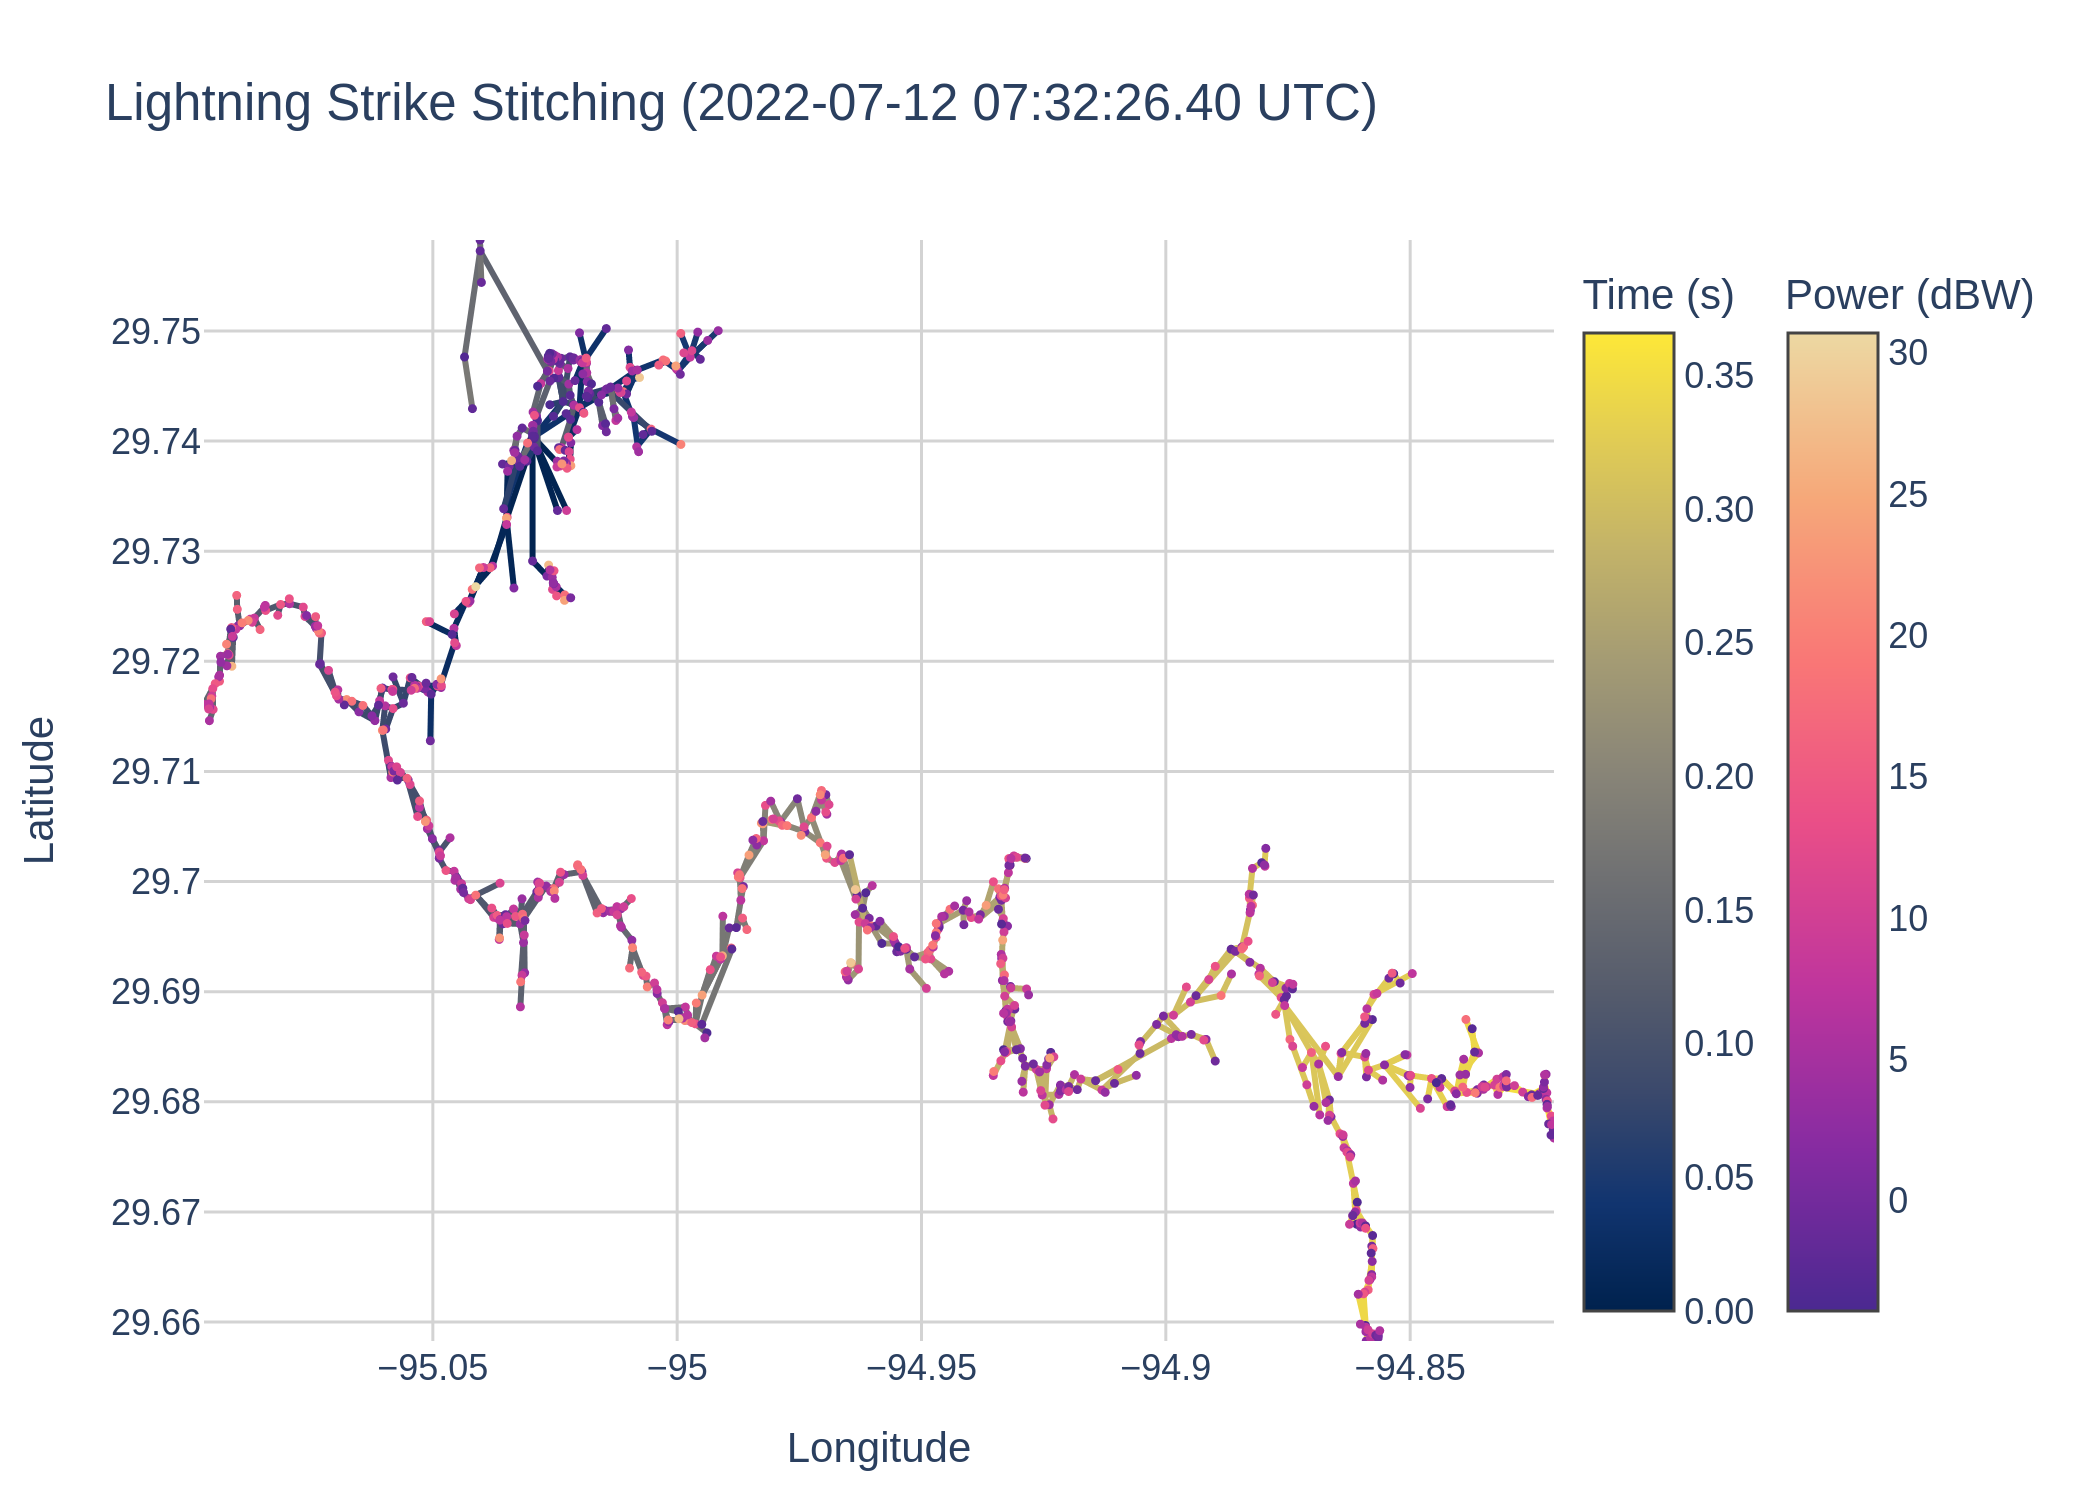
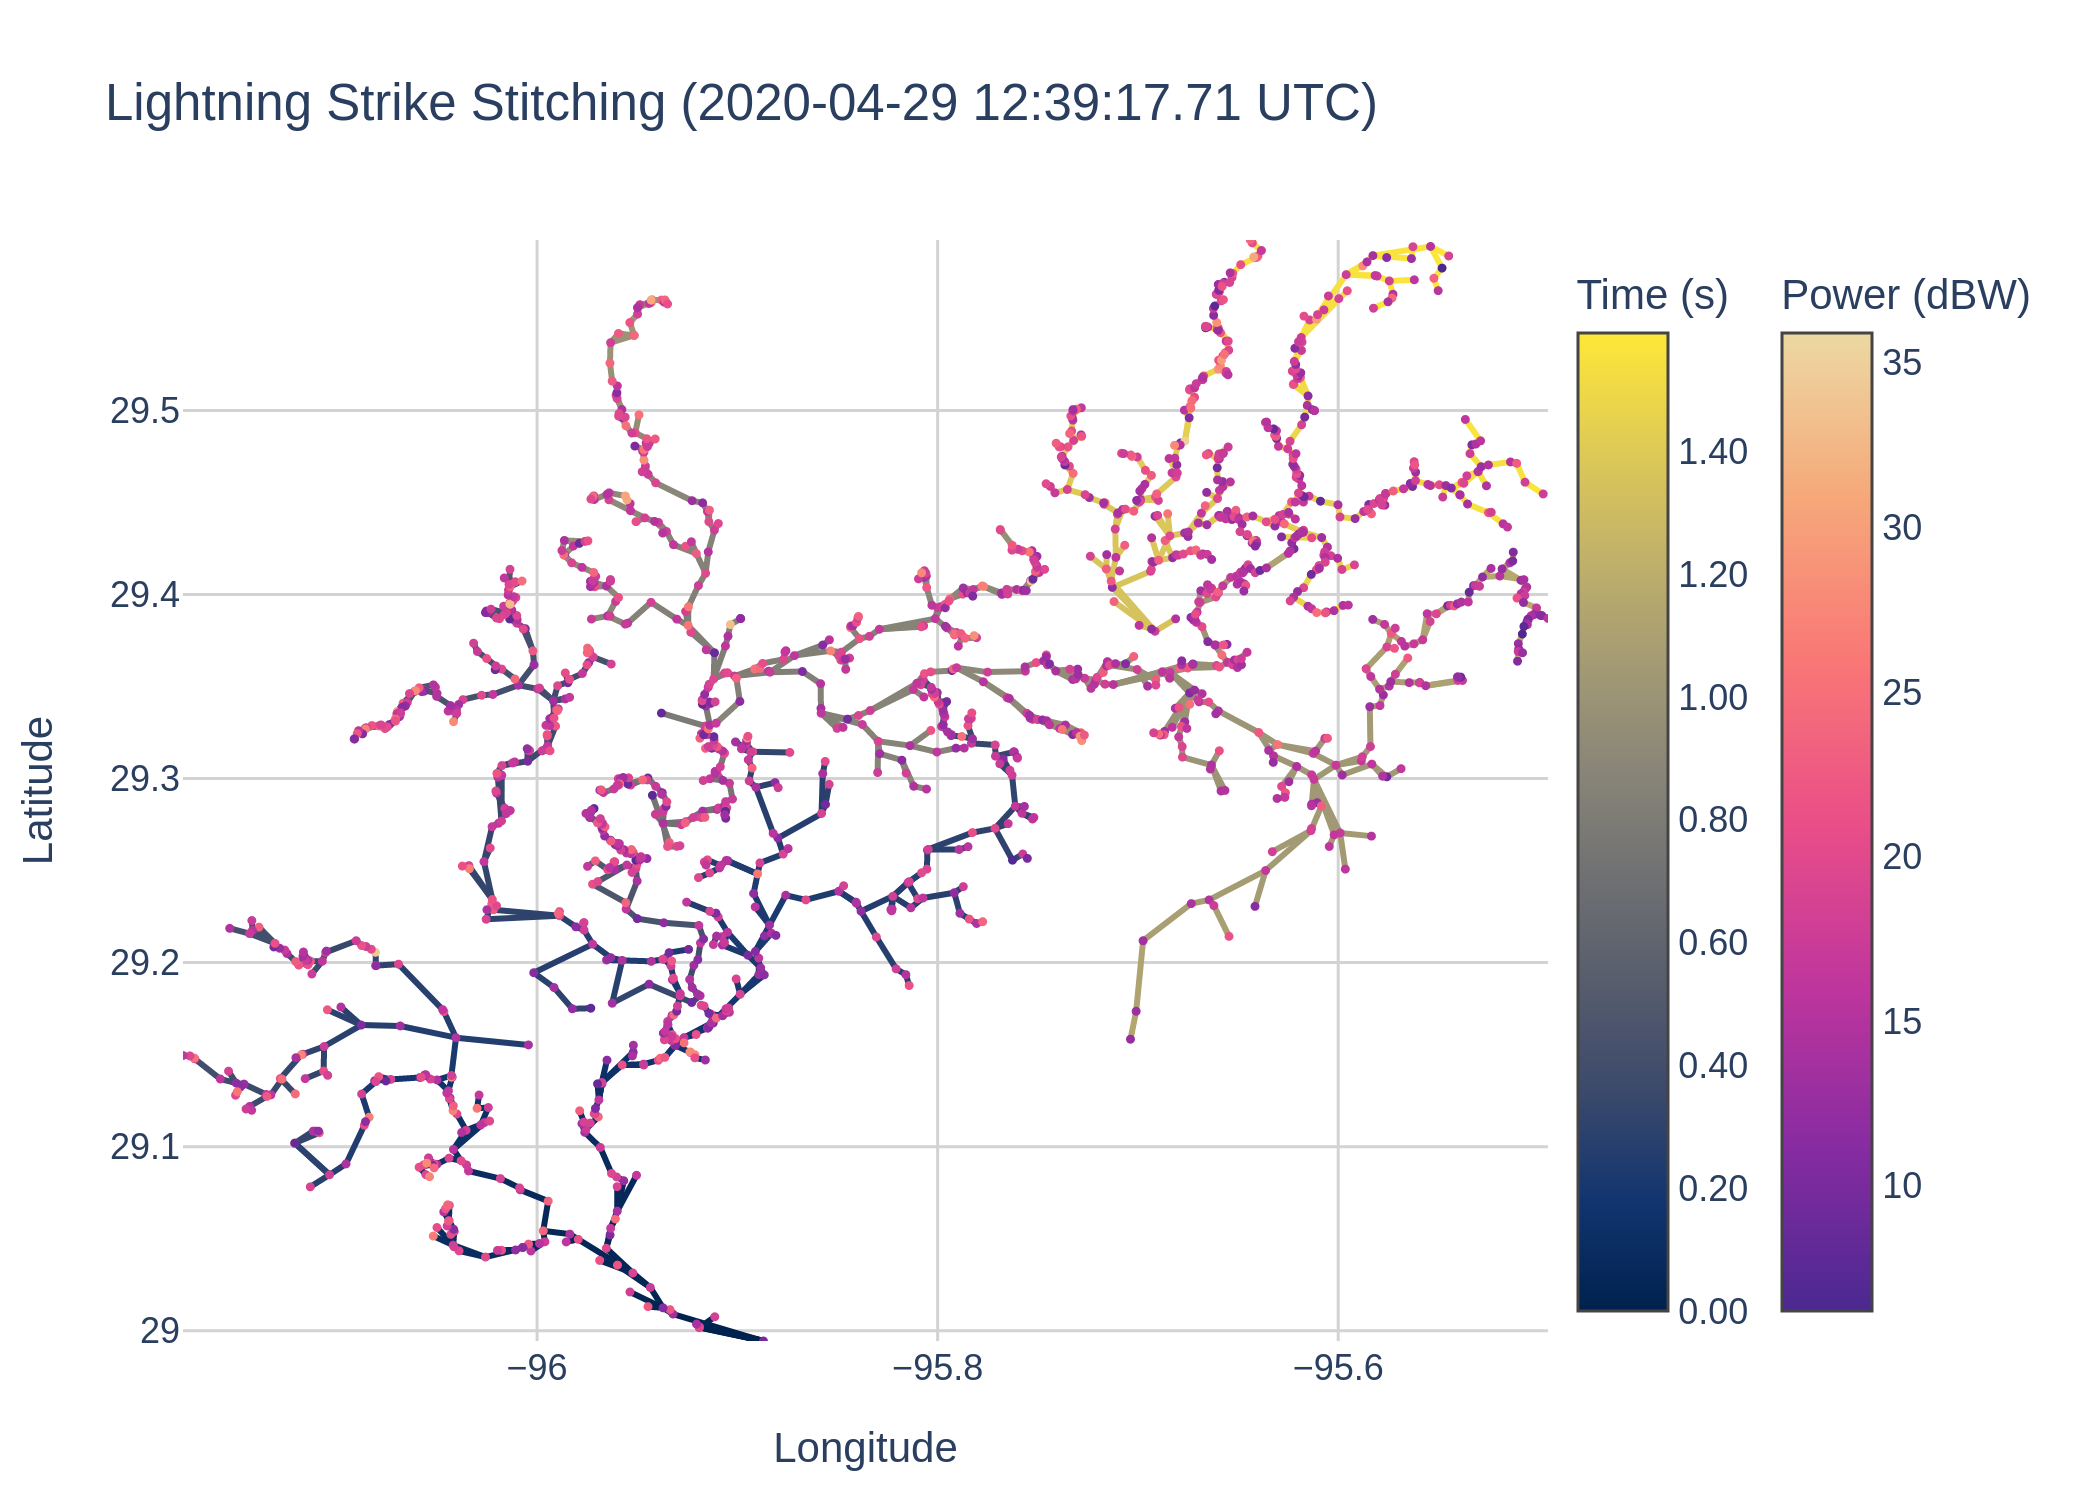
attempt at combining stitches

diff --git a/lightning_stitcher.py b/lightning_stitcher.py
@@ -56,7 +56,7 @@ def stitch_lightning_strike(strike_indeces: list[int], events: pd.DataFrame, **p
     max_dist_between_pts = params.get("max_lightning_dist", 50000)
     max_speed = params.get("max_lightning_speed", 299792.458)
     min_speed = params.get("min_lightning_speed", 0)
-    min_pts=params.get("min_lightning_points", 300)
+    min_pts = params.get("min_lightning_points", 300)
 
 
     # Sort the strike indices chronologically (using "time_unix").
@@ -136,6 +136,8 @@ def stitch_lightning_strike(strike_indeces: list[int], events: pd.DataFrame, **p
 
     return correlations_filtered
 
+
+
 def stitch_lightning_strikes(bucketed_strike_indices: list[list[int]], events: pd.DataFrame, **params) -> list[list[Tuple[int, int]]]:
     """
     Processes multiple groups of lightning strike indices sequentially with a progress bar.
@@ -148,11 +150,36 @@ def stitch_lightning_strikes(bucketed_strike_indices: list[list[int]], events: p
     Returns:
       A list containing correlations for each group.
     """
-    results = []
-    for strike_indices in tqdm(bucketed_strike_indices, total=len(bucketed_strike_indices)):
-        result = stitch_lightning_strike(strike_indices, events, **params)
-        results.append(result)
 
-    return results
+    bucketed_correlations = []
+    for strike_indices in tqdm(bucketed_strike_indices, desc="Stitching Lightning Strikes",total=len(bucketed_strike_indices)):
+        correlations = stitch_lightning_strike(strike_indices, events, **params)
+        bucketed_correlations.append(correlations)
+
+    combine_strikes_with_intercepting_times = params.get("combine_strikes_with_intercepting_times", True)
+    intercepting_times_extension_buffer = params.get("intercepting_times_extension_buffer", 10)
+
+    if combine_strikes_with_intercepting_times:
+        temp_bucketed_correlations = []
+        for correlations in tqdm(bucketed_correlations, desc="Grouping Intercepting Lightning Strikes",total=len(bucketed_correlations)):
+            
+            sorted_correlations = sorted(correlations, key=lambda corr: events.loc[corr[0], "time_unix"])
+            correlations_start_time = events.iloc[sorted_correlations[0][0]]["time_unix"]
+            
+            result_found = False
+            for i, temp_correlations in enumerate(temp_bucketed_correlations):
+                start_time = events.iloc[temp_correlations[0][0]]["time_unix"]
+                end_time = events.iloc[temp_correlations[-1][1]]["time_unix"] + intercepting_times_extension_buffer
+                if start_time < correlations_start_time < end_time:
+                    result_found = True
+                    temp_correlations += sorted_correlations
+                    temp_bucketed_correlations[i] = sorted(temp_correlations, key=lambda corr: events.loc[corr[0], "time_unix"])
+                    break
+            
+            if not result_found:
+                temp_bucketed_correlations.append(sorted_correlations)
+        bucketed_correlations = temp_bucketed_correlations
+
+    return bucketed_correlations
 
 

diff --git a/main.py b/main.py
@@ -117,11 +117,11 @@ print("Headers:", database_parser.get_headers(DB_PATH))
 ####################################################################################
 
 start_time = datetime.datetime(
-    2022, 7, 12, 0, 0, tzinfo=datetime.timezone.utc
+    2020, 4, 29, 0, 0, tzinfo=datetime.timezone.utc
 ).timestamp()  # Timestamp converts to unix (float)
 
 end_time = datetime.datetime(
-    2022, 7, 12, 23, 0, tzinfo=datetime.timezone.utc
+    2020, 4, 29, 23, 0, tzinfo=datetime.timezone.utc
 ).timestamp()  # Timestamp converts to unix (float)
 
 # Build filter list for time_unix boundaries.
@@ -140,7 +140,10 @@ filters = [
 
 # Events is a pandas DataFrame that represents all results determined from the filters above
 events = database_parser.query_events_as_dataframe(filters, DB_PATH)
-print(events)
+print("Events:", events)
+
+if events.empty:
+    print("Data too restrained")
 
 ####################################################################################
  #
@@ -151,12 +154,14 @@ print(events)
 # Additional parameters that determines "What points make up a single lightning strike"
 # They are explicitly defined
 params = {
-    "max_lightning_dist": 5000,  # max distance between two points to determine it being involved in the same strike
-    "max_lightning_speed": 299792.458,  # max speed between two points in m/s (essentially dx/dt)
-    "min_lightning_speed": 0,  # min speed between two points in m/s (essentially dx/dt)
-    "min_lightning_points": 500,  # The minimum number of points to pass the system as a "lightning strike"
-    "max_lightning_time_threshold": 0.08,  # max number of seconds between points 
-    "max_lightning_duration": 20, # max seconds that define an entire lightning strike. This is essentially a "time window" for all of the points to fill the region that determines a "lightning strike"
+    "max_lightning_dist": 5000,  # Max distance between two points to determine it being involved in the same strike
+    "max_lightning_speed": 299792.458,  # Max speed between two points in m/s (essentially dx/dt)
+    "min_lightning_speed": 0,  # Min speed between two points in m/s (essentially dx/dt)
+    "min_lightning_points": 300,  # The minimum number of points to pass the system as a "lightning strike"
+    "max_lightning_time_threshold": 0.08,  # Max number of seconds between points 
+    "max_lightning_duration": 20, # Max seconds that define an entire lightning strike. This is essentially a "time window" for all of the points to fill the region that determines a "lightning strike"
+    "combine_strikes_with_intercepting_times": True, # Set to true to ensure that strikes with intercepting times get combined. 
+    "intercepting_times_extension_buffer": 10 # Number of seconds of additional overlap to allow an additional strike to be involved
 }
 
 lightning_bucketer.USE_CACHE = True  # Generate cache of result to save time for future identical (one-to-one exact) requests

diff --git a/lightning_bucketer.py b/lightning_bucketer.py
@@ -73,7 +73,7 @@ def _bucket_dataframe_lightnings(
 
     lightning_strikes: List[List[int]] = []
 
-    for group in tqdm(unique_groups, total=total_unique_groups):
+    for group in tqdm(unique_groups, desc="Bucketing Strikes", total=total_unique_groups):
         group_indices = np.where(group_ids == group)[0]
 
         # Skip groups with fewer points than required.
@@ -287,18 +287,16 @@ def bucket_dataframe_lightnings(
 
     bucketed_correlations = lightning_stitcher.stitch_lightning_strikes(raw_groups, df, **params)
 
-    # Gather unique indices from correlations.
-    unique_indices = set()
-    for correlations in bucketed_correlations:
-      for parent_idx, child_idx in correlations:
-          unique_indices.add(parent_idx)
-          unique_indices.add(child_idx)
-
     filtered_groups: List[List[int]] = []
-    for group in raw_groups:
-        filtered_group = [idx for idx in group if idx in unique_indices]
-        if filtered_group and len(filtered_group) > 0:
-            filtered_groups.append(filtered_group)
+
+    # Gather unique indices from correlations.
+    for correlations in bucketed_correlations:
+        unique_indices = set()
+        for parent_idx, child_idx in correlations:
+            unique_indices.add(parent_idx)
+            unique_indices.add(child_idx)
+
+        filtered_groups.append(list(unique_indices))
 
     save_result_cache(df, params, (filtered_groups, bucketed_correlations))
 
